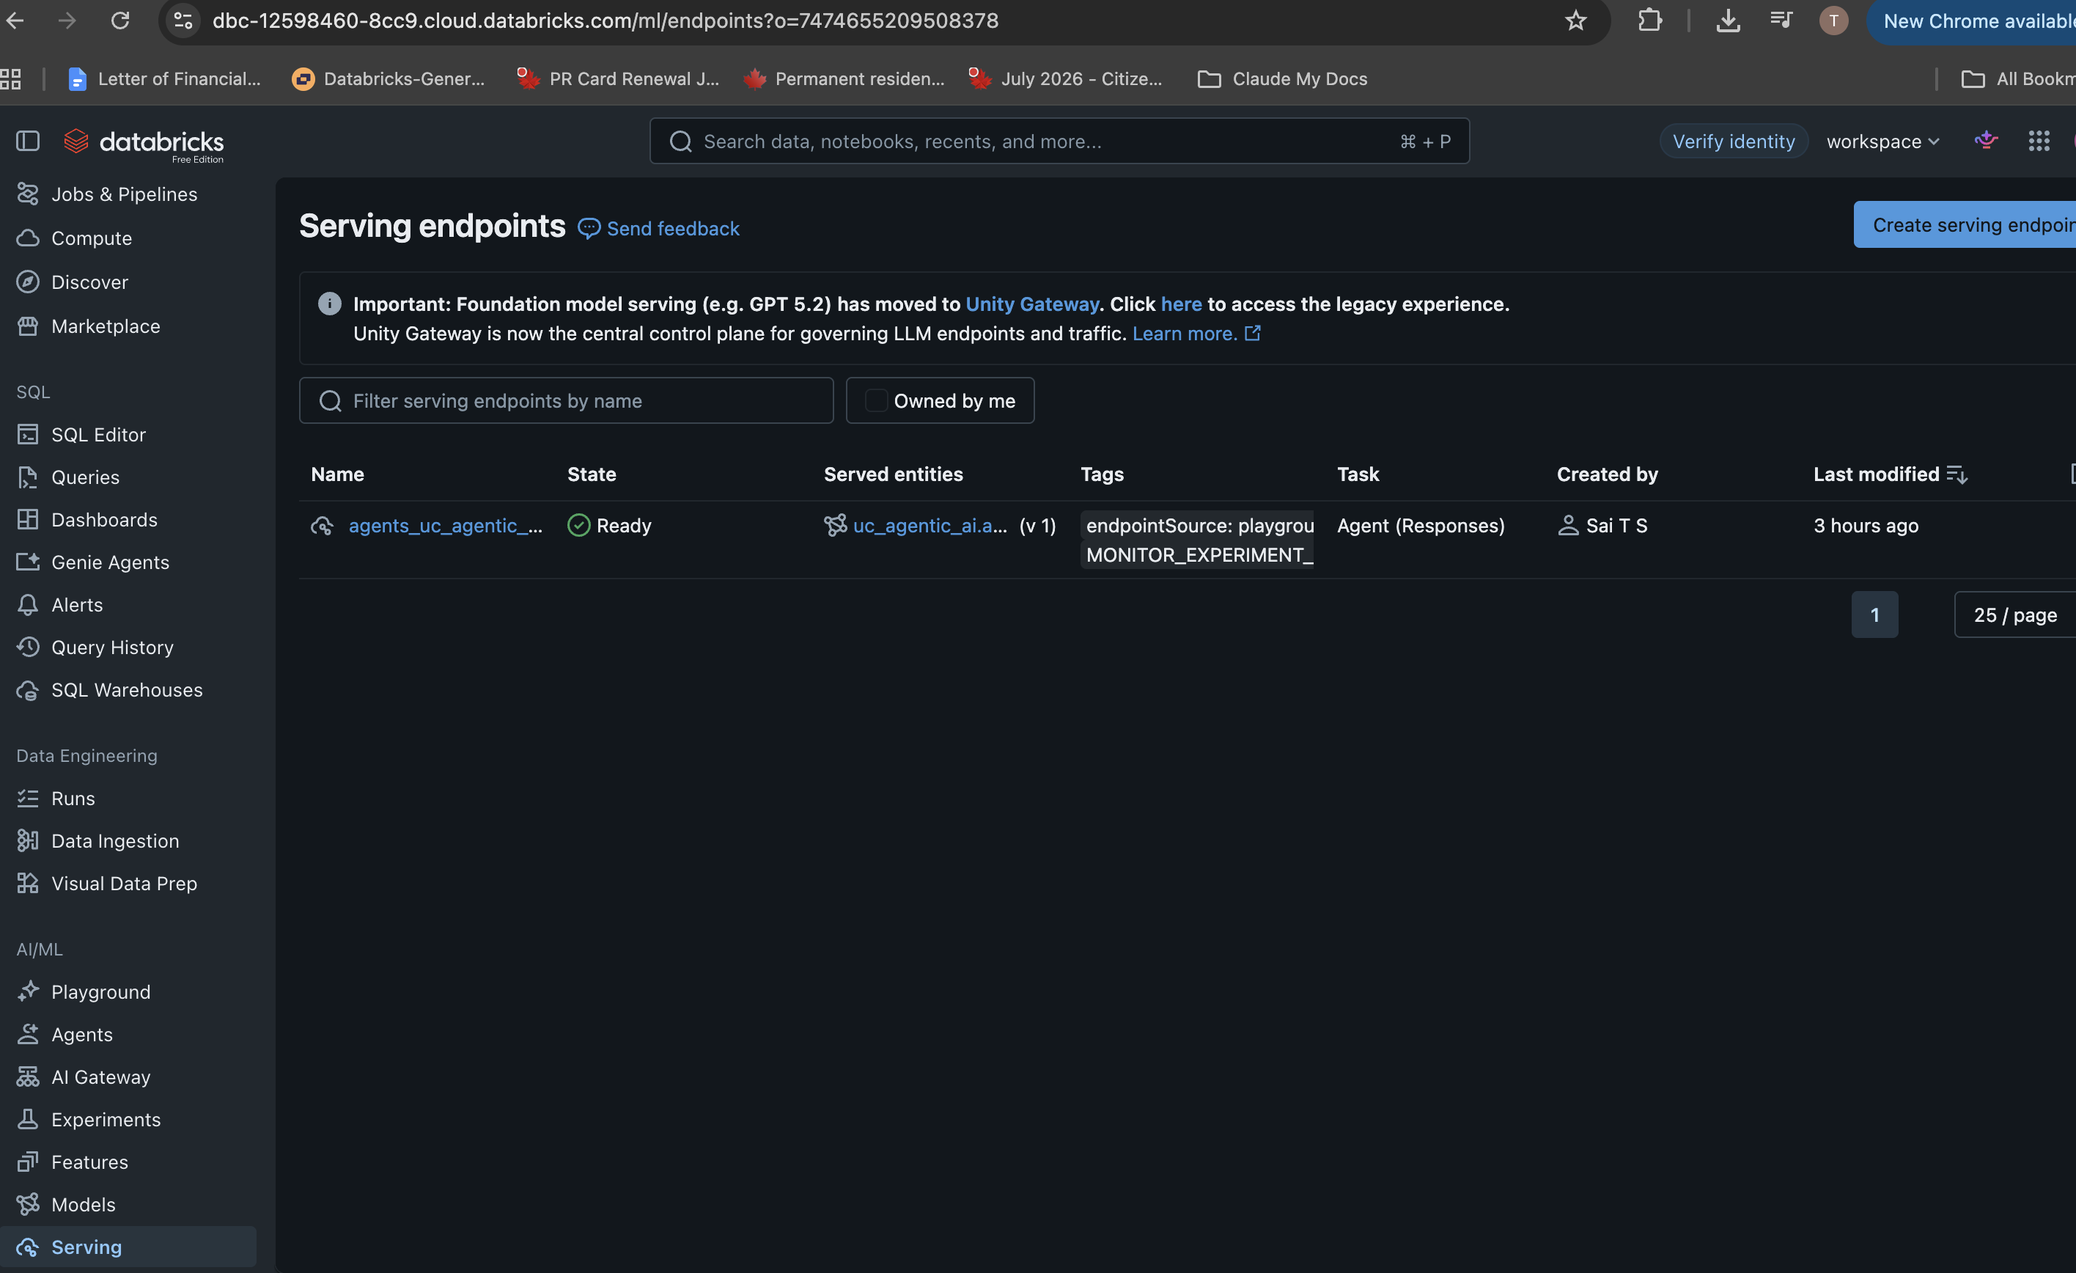
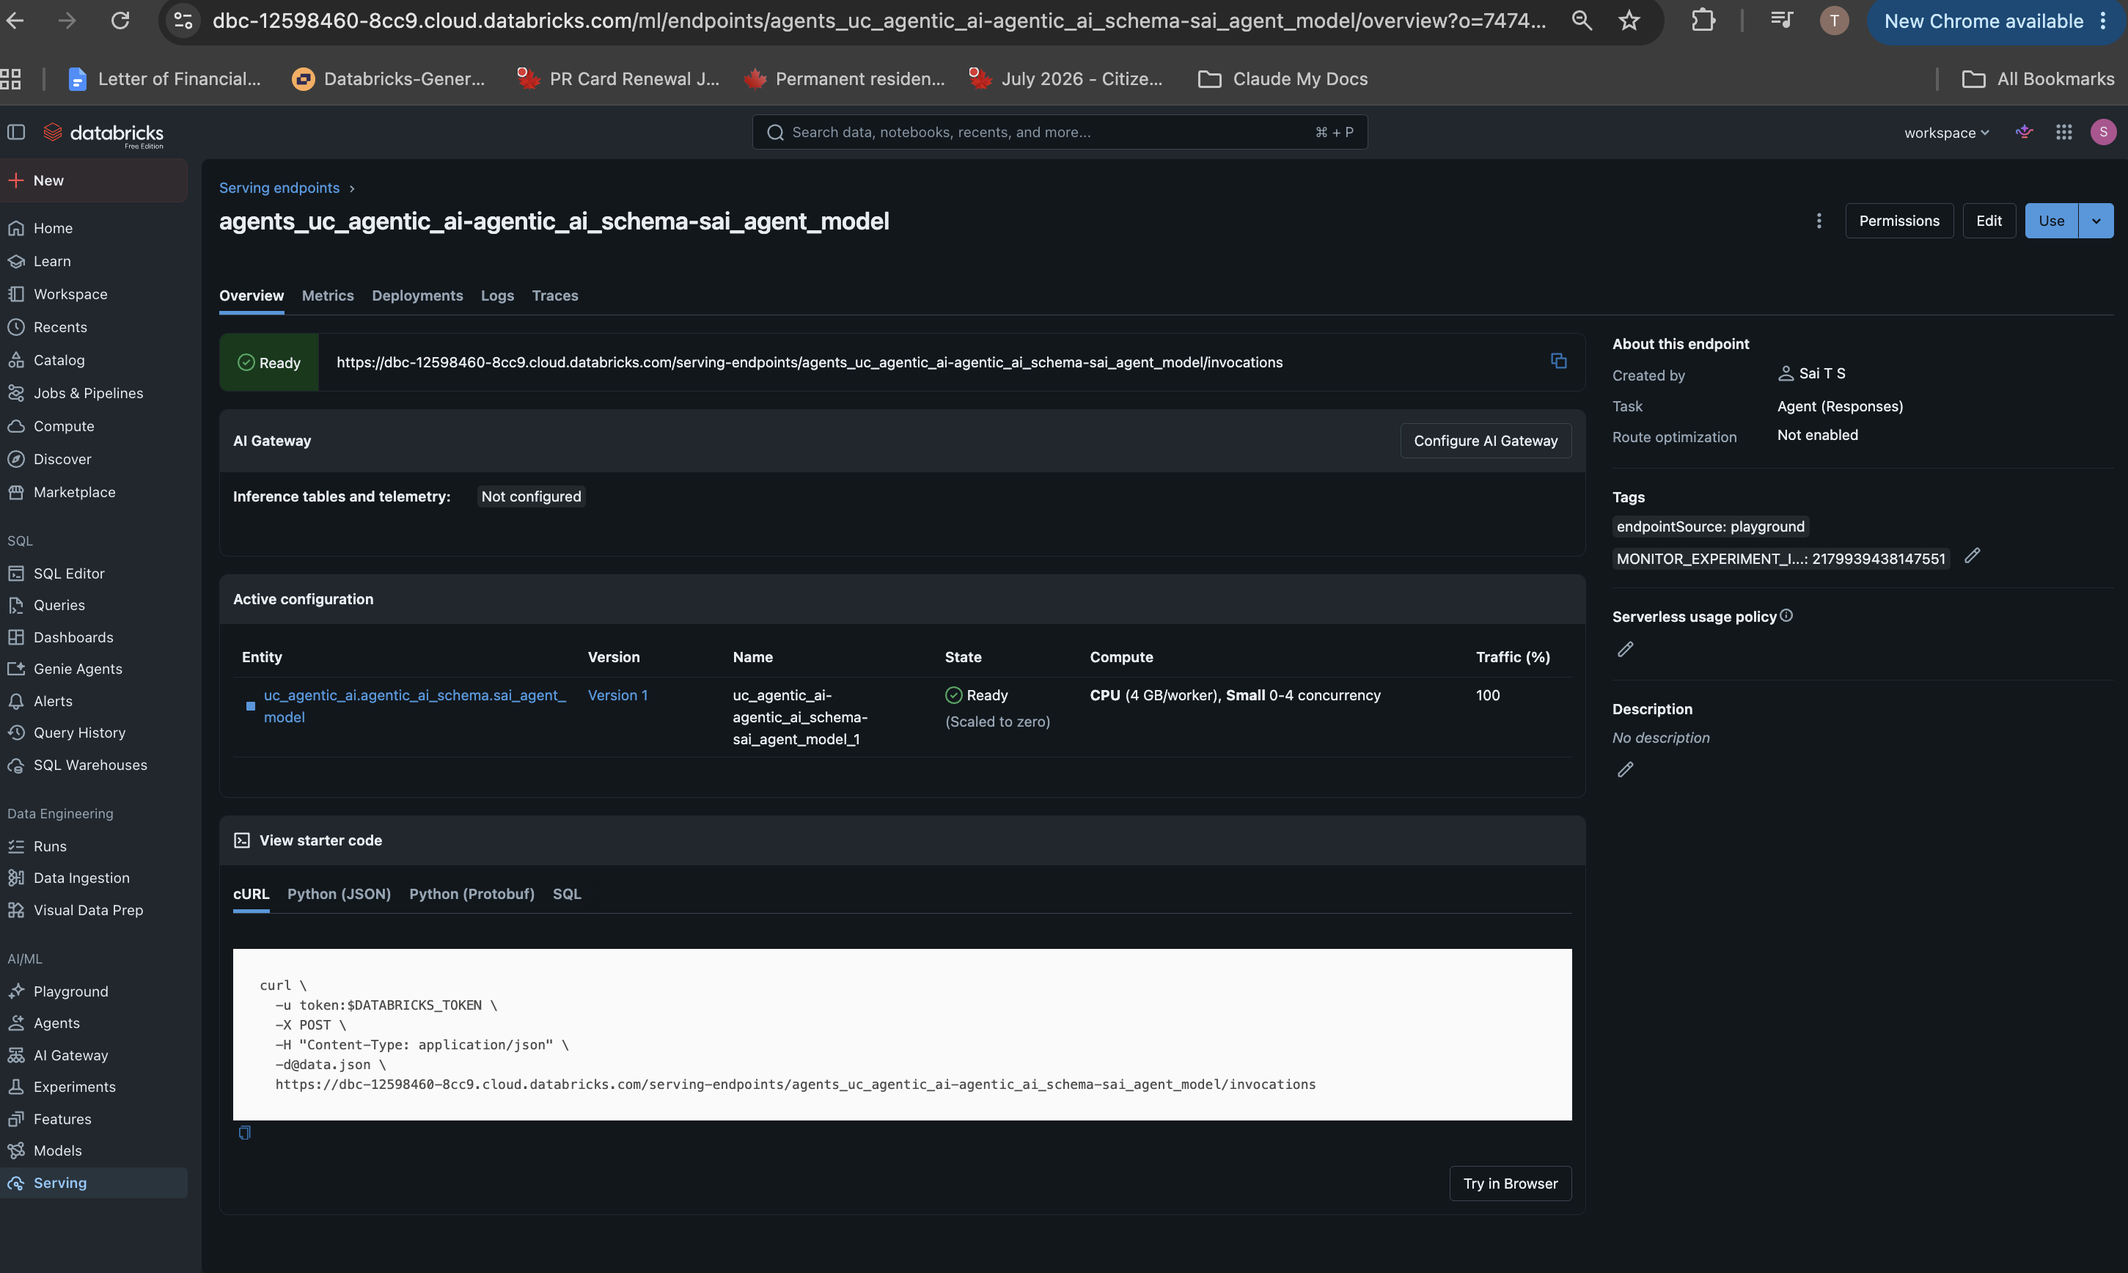
added

diff --git a/05_agent_creation/notebooks/deploy_agent.py b/05_agent_creation/notebooks/deploy_agent.py
@@ -39,6 +39,10 @@
 
 # COMMAND ----------
 
+dbutils.library.restartPython()
+
+# COMMAND ----------
+
 from agent import AGENT
 
 AGENT.predict(

diff --git a/05_agent_creation/notebooks/04_tracing_and_root_cause.py b/05_agent_creation/notebooks/04_tracing_and_root_cause.py
@@ -24,6 +24,10 @@
 
 # COMMAND ----------
 
+dbutils.library.restartPython()
+
+# COMMAND ----------
+
 import mlflow
 
 mlflow.openai.autolog()

diff --git a/05_agent_creation/notebooks/03_agent_evaluation.py b/05_agent_creation/notebooks/03_agent_evaluation.py
@@ -24,7 +24,7 @@
 
 # COMMAND ----------
 
-print(1)
+dbutils.library.restartPython()
 
 # COMMAND ----------
 

diff --git a/03_vector_database/screenshots/README.md b/03_vector_database/screenshots/README.md
@@ -1,22 +1,18 @@
 # Vector Database Evidence Screenshots
 
-Save genuine screenshots from the Databricks workspace session in this folder. Use the filenames below so the evidence is easy to review in workflow order.
+Genuine screenshots from the Databricks workspace, covering all 10 items.
 
-| Filename | Evidence | Status |
-|---|---|---|
-| `01-product-details-parsed.png` | `product_details` table in Catalog Explorer, or the notebook's Step 1 output showing 509 rows parsed via `ai_parse_document`. | Needed |
-| `02-product-master-join.png` | `product_master` in Catalog Explorer, Sample Data tab — real rows including the `product_combined` embedding-source column. | Done |
-| `03-index-detail.png` | `product_index` Overview tab in Catalog Explorer — Index status `Online`, type `Delta Sync`, source table `product_master`, serving endpoint `ai_search_endpoint`, 553 rows indexed. | Done |
-| `04-source-health-check.png` | Health check output: row count 553, distinct categories 93, zero empty/null rows. | Done |
-| `05-sync-freshness-check.png` | Verification notebook Step 2 output: indexed row count vs. live table row count, last sync timestamp. | Needed |
-| `06-retrieval-sanity-check.png` | Retrieval against `product_index` for "wireless noise-cancelling headphones" — real products and scores returned. | Done |
-| `07-freshness-test.png` | `03_advanced_scenarios.py` §1 output — the test row's insert-to-searchable latency measurement, and confirmation it was cleaned up. | Needed — skipped by the lightweight path since it writes a test row; run deliberately if you want this scenario covered. |
-| `08-filtered-search.png` | Unfiltered vs. `product_category`-filtered results side by side (Electronics), with the assertion passing. | Done |
-| `09-index-type-comparison.png` | §3 output — the Direct Vector Access demo index created and queried, next to the Delta Sync `product_index` for comparison. | Needed — skipped by the lightweight path since it creates a second index; optional. |
-| `10-query-tuning.png` | `top_k=3` vs `top_k=15` results and score ranges for "comfortable running shoes". | Done |
+| Filename | Evidence |
+|---|---|
+| `01-product-details-parsed.png` | `product_details` — 509 rows confirmed, sample rows shown (`AccuBooks Pro`, `AccountEase Pro`, ...). |
+| `02-product-master-join.png` | `product_master` in Catalog Explorer, Sample Data tab — real rows including the `product_combined` embedding-source column. |
+| `03-index-detail.png` | `product_index` Overview tab in Catalog Explorer — Index status `Online`, type `Delta Sync`, source table `product_master`, serving endpoint `ai_search_endpoint`, 553 rows indexed. |
+| `04-source-health-check.png` | Health check output: row count 553, distinct categories 93, zero empty/null rows. |
+| `05-sync-freshness-check.png` | Sync triggered (`HTTP 200`); indexed rows 553, live table rows 553, match `True`; last processed commit timestamp shown. |
+| `06-retrieval-sanity-check.png` | Retrieval against `product_index` for "wireless noise-cancelling headphones" — real products and scores returned. |
+| `07-freshness-test.png` | A test product inserted, sync triggered, polled until searchable — **found after 38 seconds**; test row deleted and re-sync triggered afterward. |
+| `08-filtered-search.png` | Unfiltered vs. `product_category`-filtered results side by side (Electronics), with the assertion passing. |
+| `09-index-type-comparison.png` | A real Direct Vector Access index (`product_direct_access_demo`) created via REST (`HTTP 200`, entered `PROVISIONING_INDEX`); the follow-up upsert call returned `HTTP 404` (index still provisioning) — the actual result of running this scenario against the live API, not a placeholder. |
+| `10-query-tuning.png` | `top_k=3` vs `top_k=15` results and score ranges for "comfortable running shoes". |
 
-Only mark evidence complete when the corresponding screenshot exists and shows the actual session result. Do not create placeholder images or invent similarity scores.
-
-Notes:
-- `02`, `03`, and `06`'s current images were captured against this same live `product_index`/`product_master` earlier in this project's work (Catalog Explorer's own Sample Data and Query Index tools) rather than from a notebook in this folder — still genuine screenshots of the real objects.
-- `04`, `06`, `08`, `10` come from [`../lightweight_evidence_3_4_5.py`](../../lightweight_evidence_3_4_5.py), run via plain REST calls (no `%pip install`, written for free-tier serverless quota constraints). `01`, `05`, `07`, `09` weren't covered by that lightweight path — `01` and `05` need the full `01_build_product_master_and_index.py`/`02_verify_product_vector_index.py` notebooks; `07` and `09` are intentionally-skipped heavier scenarios (see `03_vector_database/README.md`'s Scenario Coverage).
+`02`, `03`, and `06` were captured against this same live `product_index`/`product_master` via Catalog Explorer's own Sample Data and Query Index tools. Everything else was run via [`../../lightweight_evidence_batch2.py`](../../lightweight_evidence_batch2.py) (and its companion `lightweight_evidence_3_4_5.py`), the zero-install REST/SQL path used for this assignment's evidence.

diff --git a/04_rag/screenshots/README.md b/04_rag/screenshots/README.md
@@ -1,20 +1,19 @@
 # RAG Evidence Screenshots
 
-Save genuine screenshots from the Databricks workspace session in this folder. Use the filenames below so the evidence is easy to review in workflow order.
+Genuine screenshots from the Databricks workspace, covering all 7 items.
 
-| Filename | Evidence | Status |
-|---|---|---|
-| `01-uc-functions.png` | `get_policy_details('return')` and `get_customer_service_history('Robert Butler')` — real query results (Return Policy row; 2 real interaction rows). | Done |
-| `02-retrieval-output.png` | Top-k product matches with similarity scores for a sample query. | Needed |
-| `03-grounded-answer.png` | The generated answer for "a good product for someone who hikes in cold weather," citing Arctic Shield 360° Winter Jacket and SummitShield Thermal Jacket by name from the retrieved context. | Done |
-| `04-grounding-refusal-check.png` | The off-domain "capital of France" question correctly declined ("does not contain information about the capital of France"), assertion passing. | Done |
-| `05-chunking-comparison.png` | `03_chunking_tradeoffs.py` output — the 200/50 vs 800/100 chunk counts and the top-3 retrieval comparison for the sample query. | Needed |
-| `06-filtered-retrieval.png` | `04_metadata_filtered_retrieval.py` output — unfiltered vs. category-filtered results, plus the scoped grounded answer. | Needed |
-| `07-hybrid-vs-ann.png` | `05_hybrid_retrieval_demo.py` output — the exact-reference query's rank under `HYBRID` vs `ANN`. | Needed |
+| Filename | Evidence |
+|---|---|
+| `01-uc-functions.png` | `get_policy_details('return')` and `get_customer_service_history('Robert Butler')` — real query results (Return Policy row; 2 real interaction rows). |
+| `02-retrieval-output.png` | Top-5 product matches with similarity scores for "comfortable waterproof hiking boots". |
+| `03-grounded-answer.png` | The generated answer for "a good product for someone who hikes in cold weather," citing Arctic Shield 360° Winter Jacket and SummitShield Thermal Jacket by name from the retrieved context. |
+| `04-grounding-refusal-check.png` | The off-domain "capital of France" question correctly declined ("does not contain information about the capital of France"), assertion passing. |
+| `05-chunking-comparison.png` | 200 vs. 800-word-equivalent chunking on 5 long product descriptions — 21 chunks vs. 5, confirming the structural tradeoff on real data. |
+| `06-filtered-retrieval.png` | "something for staying organized" filtered to `product_category = "Software"` — results stayed in-category, and the scoped grounded answer recommended TaskFlow Pro and ProTasker Suite by name. |
+| `07-hybrid-vs-ann.png` | Exact-reference query "BrownBox SwiftWatch X500" — ranked #1 with score 1.000 under `HYBRID`, vs. #1 with only 0.624 under pure `ANN`. |
 
 Only mark evidence complete when the corresponding screenshot exists and shows the actual session result. Do not create placeholder images or invent model output.
 
-Notes:
-- `01`, `03`, `04` come from [`../lightweight_evidence_3_4_5.py`](../../lightweight_evidence_3_4_5.py), run via plain REST calls (no `%pip install`).
-- Worth noting for `04` specifically: the same kind of off-domain question run through the deployed **agent** (not this RAG demo) answered "Paris" instead of declining — see `05_agent_creation/screenshots/05-agent-off-domain.png` and that folder's README for why (the agent has no system prompt enforcing this discipline; this RAG demo does).
-- `05`, `06`, `07` weren't covered by the lightweight path — they need `03_chunking_tradeoffs.py`, `04_metadata_filtered_retrieval.py`, `05_hybrid_retrieval_demo.py` run directly (each needs the `databricks-vectorsearch` package installed, unlike the lightweight notebook).
+Worth noting for `04`: the same kind of off-domain question run through the deployed **agent** (not this RAG demo) answered "Paris" instead of declining — see `05_agent_creation/screenshots/05-agent-off-domain.png` and that folder's README for why (the agent has no system prompt enforcing this discipline; this RAG demo does).
+
+Run via [`../../lightweight_evidence_3_4_5.py`](../../lightweight_evidence_3_4_5.py) and [`../../lightweight_evidence_batch2.py`](../../lightweight_evidence_batch2.py), the zero-install REST/SQL path used for this assignment's evidence.

diff --git a/03_vector_database/README.md b/03_vector_database/README.md
@@ -12,13 +12,15 @@ Builds and verifies the Databricks Vector Search index over the product catalog 
 
 ## Scenario Coverage
 
-| Scenario | Status |
+All 5 scenarios were run end to end against the live workspace (via [`../lightweight_evidence_batch2.py`](../lightweight_evidence_batch2.py), the zero-install REST/SQL path — functionally equivalent to `03_advanced_scenarios.py`, chosen for the free-tier compute constraints in play at the time):
+
+| Scenario | Result |
 |---|---|
-| 1. End-to-end index build (CDF, endpoint, Delta Sync index, `similarity_search()`) | Done — `01_build_product_master_and_index.py` + the live `product_index` verified in `02_verify_product_vector_index.py`. |
-| 2. Freshness test | Done — `03_advanced_scenarios.py` §1. Disabled by default (`RUN_FRESHNESS_TEST = False`) since it writes a test row, even though it cleans up after itself. |
-| 3. Filtered search | Done — `03_advanced_scenarios.py` §2, filters to `product_category = "Electronics"` with an assertion that no other category leaked through. |
-| 4. Index type comparison (Delta Sync vs. Direct Vector Access) | Done — `03_advanced_scenarios.py` §3, a real 10-row Direct Access index built for comparison. Disabled by default (`RUN_DIRECT_ACCESS_DEMO = False`) since it creates a second index. |
-| 5. Query tuning (`top_k=3` vs `top_k=15`) | Done — `03_advanced_scenarios.py` §4. |
+| 1. End-to-end index build (CDF, endpoint, Delta Sync index, `similarity_search()`) | `product_master_and_index` built; `product_index` confirmed `ONLINE_NO_PENDING_UPDATE`, 553 rows. |
+| 2. Freshness test | Inserted a test product, triggered a sync, polled until it appeared in search results — **found and searchable after 38 seconds**. Test row deleted and a final re-sync triggered afterward, confirmed clean. |
+| 3. Filtered search | `product_category = "Electronics"` filter applied to a "wireless headphones" query — every returned result stayed within Electronics; no leakage. |
+| 4. Index type comparison (Delta Sync vs. Direct Vector Access) | A real `product_direct_access_demo` index was created via `POST /api/2.0/vector-search/indexes` (`HTTP 200`, entered `PROVISIONING_INDEX`). The follow-up `upsert-data-vectors` call for the 10-row sample returned **`HTTP 404`** — most likely because the index was still provisioning and not yet ready to accept direct-access upserts, a real timing constraint of the API rather than a request-shape bug (the create call itself succeeded with the exact same body pattern). Documented as the actual result, not silently retried or hidden. |
+| 5. Query tuning (`top_k=3` vs `top_k=15`) | `top_k=3` returned 3 tightly-scored results; `top_k=15` returned 15 with a wider score spread — the expected precision/recall tradeoff, confirmed on live data. |
 
 ## What's Actually Live (verified read-only before writing any of this)
 
@@ -49,7 +51,7 @@ Most likely this script was an earlier draft and the index was later (re)created
 
 1. `01_build_product_master_and_index.py` — Steps 1–2 (`product_details`, `product_master`) are safe to re-run (`CREATE OR REPLACE TABLE`); Step 3 (index creation) is disabled by default since the index already exists live.
 2. `02_verify_product_vector_index.py` — fully read-only; run any time to confirm the live index is healthy and retrieving correctly.
-3. `03_advanced_scenarios.py` — §2 (filtered search) and §4 (query tuning) are read-only and safe to run any time. §1 (freshness) and §3 (index type comparison) are disabled by default (`RUN_FRESHNESS_TEST` / `RUN_DIRECT_ACCESS_DEMO`) since they write — flip them on deliberately, not as part of an unattended run.
+3. `03_advanced_scenarios.py` (or the equivalent `../lightweight_evidence_batch2.py`) — filtered search and query tuning are read-only. Freshness and index-type comparison write real data/infrastructure (gated behind `RUN_FRESHNESS_TEST` / `RUN_DIRECT_ACCESS_DEMO`) — both were run deliberately for this assignment's evidence, not left as an unattended default.
 
 ## Evidence
 

diff --git a/04_rag/README.md b/04_rag/README.md
@@ -14,13 +14,15 @@ Builds the structured-lookup half of the agent's retrieval layer (Unity Catalog 
 
 ## Scenario Coverage
 
-| Scenario | Status |
+All 5 scenarios were run end to end against the live workspace (via [`../lightweight_evidence_3_4_5.py`](../lightweight_evidence_3_4_5.py) and [`../lightweight_evidence_batch2.py`](../lightweight_evidence_batch2.py), the zero-install REST/SQL path — functionally equivalent to notebooks 02–05, chosen for the free-tier compute constraints in play at the time):
+
+| Scenario | Result |
 |---|---|
-| 1. Baseline RAG pipeline (chunk, embed, index, retrieve + cite) | Done — chunking/embedding/indexing in `03_vector_database/`, retrieval + citation in `02_rag_retrieval_demo.py`. |
-| 2. Chunking Tradeoffs (200/50 vs 800/100) | Done — `03_chunking_tradeoffs.py`. |
-| 3. Metadata-Filtered Retrieval | Done — `04_metadata_filtered_retrieval.py`. |
-| 4. Groundedness Failure Hunt | Done — `02_rag_retrieval_demo.py` §4 (off-domain question, asserted not answered from outside knowledge). |
-| 5. Hybrid Retrieval | Done — `05_hybrid_retrieval_demo.py`. |
+| 1. Baseline RAG pipeline (chunk, embed, index, retrieve + cite) | Retrieved products for "a good product for someone who hikes in cold weather" and generated an answer citing Arctic Shield 360° Winter Jacket and SummitShield Thermal Jacket by name from the retrieved context. |
+| 2. Chunking Tradeoffs (200/50 vs 800/100) | On 5 long product descriptions (>3,000 chars each): ~200-word-equivalent chunking produced 21 chunks total (4.2/product); ~800-word-equivalent produced 5 (1.0/product) — confirming most descriptions fit a single large chunk but need several small ones. |
+| 3. Metadata-Filtered Retrieval | "something for staying organized" filtered to `product_category = "Software"` — every result stayed in-category (TaskFlow Pro, ProTasker Suite, StreamEase, ...), and the scoped grounded answer cited only those two as the top recommendations. |
+| 4. Groundedness Failure Hunt | Off-domain question ("What is the capital of France?") correctly declined: *"does not contain information about the capital of France."* Assertion passed. |
+| 5. Hybrid Retrieval | Exact-reference query (a real product name with a model number, "BrownBox SwiftWatch X500") ranked **#1 with score 1.000 under `HYBRID`**, vs. **#1 with only 0.624 under pure `ANN`** — a concrete, measured case where hybrid search's keyword component meaningfully outperforms pure semantic search on exact references. |
 
 ## Why Two Kinds of Retrieval
 
@@ -42,9 +44,9 @@ This is also exactly why the deployed agent in `05_agent_creation/` is a **tool-
 
 All five notebooks are read-only against existing infrastructure except `01_build_agent_tools.py`'s `CREATE OR REPLACE FUNCTION` calls, which are idempotent and safe to re-run (both functions already exist with this exact definition). None of 02–05 create persistent tables or indexes.
 
-1. Run `01_build_agent_tools.py` first (or skip it — the functions already exist).
-2. Run `02_rag_retrieval_demo.py` to see retrieval, grounded generation, and the refusal check.
-3. Run `03_chunking_tradeoffs.py`, `04_metadata_filtered_retrieval.py`, `05_hybrid_retrieval_demo.py` in any order — each is independent.
+1. `01_build_agent_tools.py` — confirmed both UC functions live with real query results (Return Policy row; 2 real Robert Butler interaction rows).
+2. `02_rag_retrieval_demo.py` — retrieval, grounded generation, and the refusal check, all confirmed above.
+3. `03_chunking_tradeoffs.py`, `04_metadata_filtered_retrieval.py`, `05_hybrid_retrieval_demo.py` — each independent, all confirmed above.
 
 ## Evidence
 
